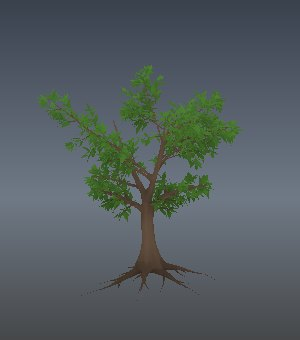
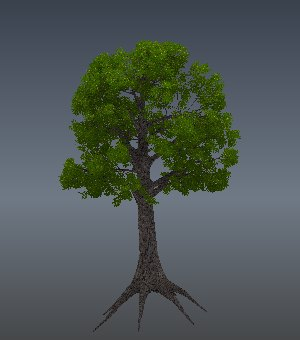
LOD pictures and triangle counts from the hand-authored oak

Changed region(s): [[0.12, 0.1176, 0.81, 0.9706]]

diff --git a/site/index.html b/site/index.html
@@ -164,14 +164,14 @@
       <p class="lead">Lower levels keep the skeleton and coarsen the mesh around it, so the outline holds when the engine switches. The billboard is the tree rendered from eight sides into one 4 × 2 atlas.</p>
     </header>
 
-    <div class="strip" role="list" aria-label="Triangles per level, Oak preset, seed 1">
-      <figure class="strip__cell" role="listitem" style="--share: 1"><img src="docs/images/lod-0.jpg" width="300" height="340" loading="lazy" alt="Oak at LOD0, full detail"><figcaption><span class="label">LOD0</span><span class="num">32,014</span><span class="bar"></span></figcaption></figure>
-      <figure class="strip__cell" role="listitem" style="--share: .530"><img src="docs/images/lod-1.jpg" width="300" height="340" loading="lazy" alt="Oak at LOD1, same outline with fewer leaves"><figcaption><span class="label">LOD1</span><span class="num">16,982</span><span class="bar"></span></figcaption></figure>
-      <figure class="strip__cell" role="listitem" style="--share: .320"><img src="docs/images/lod-2.jpg" width="300" height="340" loading="lazy" alt="Oak at LOD2"><figcaption><span class="label">LOD2</span><span class="num">10,234</span><span class="bar"></span></figcaption></figure>
-      <figure class="strip__cell" role="listitem" style="--share: .200"><img src="docs/images/lod-3.jpg" width="300" height="340" loading="lazy" alt="Oak at LOD3, coarse branches and large leaf clusters"><figcaption><span class="label">LOD3</span><span class="num">6,406</span><span class="bar"></span></figcaption></figure>
-      <figure class="strip__cell strip__cell--bb" role="listitem" style="--share: .004"><img src="docs/images/lod-4.jpg" width="300" height="340" loading="lazy" alt="Oak as a billboard: crossed cards showing renders of the tree"><figcaption><span class="label">Billboard</span><span class="num">16</span><span class="bar"></span></figcaption></figure>
+    <div class="strip" role="list" aria-label="Triangles per level of the oak at the top of this page">
+      <figure class="strip__cell" role="listitem" style="--share: 1"><img src="docs/images/lod-0.jpg" width="300" height="340" loading="lazy" alt="The oak from the top of this page at LOD0, full detail"><figcaption><span class="label">LOD0</span><span class="num">128,940</span><span class="bar"></span></figcaption></figure>
+      <figure class="strip__cell" role="listitem" style="--share: .591"><img src="docs/images/lod-1.jpg" width="300" height="340" loading="lazy" alt="The same oak at LOD1, same outline with fewer, larger leaves"><figcaption><span class="label">LOD1</span><span class="num">76,154</span><span class="bar"></span></figcaption></figure>
+      <figure class="strip__cell" role="listitem" style="--share: .387"><img src="docs/images/lod-2.jpg" width="300" height="340" loading="lazy" alt="The same oak at LOD2"><figcaption><span class="label">LOD2</span><span class="num">49,880</span><span class="bar"></span></figcaption></figure>
+      <figure class="strip__cell" role="listitem" style="--share: .219"><img src="docs/images/lod-3.jpg" width="300" height="340" loading="lazy" alt="The same oak at LOD3, coarse branches and large leaf clusters"><figcaption><span class="label">LOD3</span><span class="num">28,270</span><span class="bar"></span></figcaption></figure>
+      <figure class="strip__cell strip__cell--bb" role="listitem" style="--share: .004"><img src="docs/images/lod-4.jpg" width="300" height="340" loading="lazy" alt="The same oak as a billboard: crossed cards showing renders of the tree"><figcaption><span class="label">Billboard</span><span class="num">16</span><span class="bar"></span></figcaption></figure>
     </div>
-    <p class="strip__note">Triangles per level, Oak preset, seed 1.</p>
+    <p class="strip__note">Triangles per level of the oak at the top of this page (744 stems, 15,405 leaves at LOD0).</p>
 
     <dl class="sheet">
       <div class="sheet__row"><dt class="label">Wind</dt>

diff --git a/docs/lod.html b/docs/lod.html
@@ -31,13 +31,13 @@
 <li>Leaves are thinned out evenly over the crown, and the remaining leaves grow larger, so the crown keeps the same leaf area and density from a distance.</li>
 </ul>
 <div class="gallery wide">
-<figure><img src="images/lodwire-0.jpg" alt="LOD0 wireframe"><figcaption>LOD0</figcaption></figure>
-<figure><img src="images/lodwire-1.jpg" alt="LOD1 wireframe"><figcaption>LOD1</figcaption></figure>
-<figure><img src="images/lodwire-2.jpg" alt="LOD2 wireframe"><figcaption>LOD2</figcaption></figure>
-<figure><img src="images/lodwire-3.jpg" alt="LOD3 wireframe"><figcaption>LOD3</figcaption></figure>
+<figure><img src="images/lodwire-0.jpg" alt="LOD0 wireframe of a hand-authored oak, close to the base of the trunk"><figcaption>LOD0</figcaption></figure>
+<figure><img src="images/lodwire-1.jpg" alt="LOD1 wireframe of a hand-authored oak, close to the base of the trunk"><figcaption>LOD1</figcaption></figure>
+<figure><img src="images/lodwire-2.jpg" alt="LOD2 wireframe of a hand-authored oak, close to the base of the trunk"><figcaption>LOD2</figcaption></figure>
+<figure><img src="images/lodwire-3.jpg" alt="LOD3 wireframe of a hand-authored oak, close to the base of the trunk"><figcaption>LOD3</figcaption></figure>
 </div>
 <div class="gallery">
-<figure><img src="images/lod-0.jpg" alt="LOD0"><figcaption>LOD0</figcaption></figure>
+<figure><img src="images/lod-0.jpg" alt="A hand-authored oak at LOD0"><figcaption>LOD0</figcaption></figure>
 <figure><img src="images/lod-1.jpg" alt="LOD1"><figcaption>LOD1</figcaption></figure>
 <figure><img src="images/lod-2.jpg" alt="LOD2"><figcaption>LOD2</figcaption></figure>
 <figure><img src="images/lod-3.jpg" alt="LOD3"><figcaption>LOD3</figcaption></figure>

diff --git a/site/copy.md b/site/copy.md
@@ -50,8 +50,8 @@ the source or the docs in this repository.
 ## 2. What ends up in the file
 
 - H2: Four LODs, a billboard, wind weights. One GLB.
-- LOD table (Oak preset, seed 1, from code via get_stats): LOD0 32,014 · LOD1 16,982 · LOD2 10,234 ·
-  LOD3 6,406 · Billboard 16 triangles.
+- LOD table (the person's oak from the hero, via get_stats): LOD0 128,940 · LOD1 76,154 · LOD2 49,880 ·
+  LOD3 28,270 · Billboard 16 triangles. Pictures rendered from the same oak.
 - LOD note: Lower levels keep the skeleton and coarsen the mesh around it, so the silhouette holds when the
   engine switches.
 - Wind: Two weights per vertex in TEXCOORD_1 (UV2): x is branch sway, 0 at the ground to 1 at the crown
